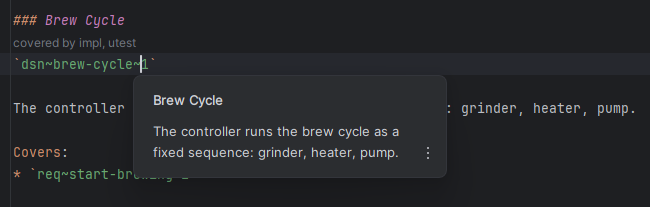
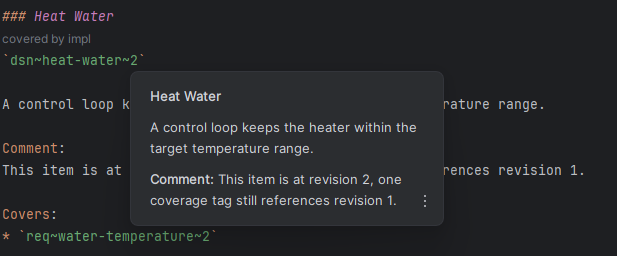
docs/hover-feature-description (#67)

diff --git a/doc/user-guide/README.md b/doc/user-guide/README.md
@@ -9,7 +9,7 @@ The [demo walkthrough](../demo/README.md) does exactly that.
 | Feature                                     | Description                                       | 
 |---------------------------------------------|---------------------------------------------------|
 | [Syntax highlighting](#syntax-highlighting) | IDs, keywords and tags get their own colors       |
-| [Hover documentation](#hover-documentation) | Title and description of the referenced item      |
+| [Hover documentation](#hover-documentation) | What the referenced item says, section by section |
 | [Go to definition](#go-to-definition)       | Between a tag and the item, in both directions    |
 | [Find references](#find-references)         | Every tag covering an item                        |
 | [Symbol search](#symbol-search)             | Find items by ID or title                         |
@@ -39,9 +39,19 @@ own name (`[impl~login~2->...]`) and needed coverage (`[dsn->req~login~1>>impl,u
 
 ## Hover documentation
 
-Pointing at a specification item ID shows the title and description of the item
-it refers to, wherever the ID appears: in a coverage tag, in a `Covers:` list or
-on the declaration itself.
+Pointing at a specification item ID shows what the item it refers to says,
+wherever the ID appears: in a coverage tag, in a `Covers:` list or on the
+declaration itself.
+
+Title and description come first. Below them the tooltip repeats the sections
+the item carries, each behind its keyword: `Rationale:`, `Comment:`, `Depends:`
+and `Tags:`, and `Status:` where it is not `approved`. A section the item does
+not carry is left out.
+
+`Needs:` and `Covers:` are missing on purpose. Both say where the item sits in
+the trace, which the [code lens](#coverage-code-lens) and
+[go to definition](#go-to-definition) answer against the current trace instead
+of repeating what the item declares.
 
 ![Hover documentation](images/hover.png)
 

diff --git a/vscode-extension/README.md b/vscode-extension/README.md
@@ -2,7 +2,7 @@
 
 Integrates the [OpenFastTrace](https://github.com/itsallcode/openfasttrace) (OFT) language server into VS Code via the built-in Language Server Protocol client. The server understands OFT specification items and coverage tags and provides:
 
-* **Hover documentation**: title and description of the referenced specification item
+* **Hover documentation**: shows what the referenced specification item says
 * **Go to definition**: from a coverage tag to the specification item and from an item to all its covering tags
 * **Find references**: all coverage tags in the workspace that cover a specification item
 * **Trace diagnostics**: uncovered specification items, links to items that do not exist and duplicate definitions, reported for every file in the Problems view
@@ -15,6 +15,7 @@ Integrates the [OpenFastTrace](https://github.com/itsallcode/openfasttrace) (OFT
 * **Syntax highlighting**: specification item definitions, section keywords and coverage tags via semantic tokens
 * **Code completion**: specification item IDs in `Covers:` sections and coverage tag targets
 * **Tag skeletons**: invoking completion manually in a comment offers a skeleton such as `[impl->...]` for every artifact type the workspace needs, including project specific ones
+* **Trace decisions**: an architecture decision record written as [MADR](https://github.com/adr/madr) can carry a specification item ID and is then traced like a requirement
 * **Ignore file**: glob patterns in a `.oftignore` file in the workspace root exclude files from all OFT features, on top of the build output and hidden paths that are excluded by default
 
 The server starts automatically when a supported file is opened. No configuration is required.

diff --git a/README.md b/README.md
@@ -33,7 +33,7 @@ explains items, coverage and artifact types.
 | Feature                                                             | What it gives you                                                |
 |---------------------------------------------------------------------|------------------------------------------------------------------|
 | [Syntax highlighting](doc/user-guide/README.md#syntax-highlighting) | Item IDs, section keywords and coverage tags in their own colors |
-| [Hover documentation](doc/user-guide/README.md#hover-documentation) | Title and description of the item an ID refers to                |
+| [Hover documentation](doc/user-guide/README.md#hover-documentation) | What the item an ID refers to says, section by section           |
 | [Go to definition](doc/user-guide/README.md#go-to-definition)       | From a tag to the item, from an item to everything covering it   |
 | [Find references](doc/user-guide/README.md#find-references)         | Every coverage tag in the workspace that covers an item          |
 | [Symbol search](doc/user-guide/README.md#symbol-search)             | Items through the editor's workspace symbol search               |

diff --git a/doc/demo/README.md b/doc/demo/README.md
@@ -35,9 +35,14 @@ are colored.
 ### 2. Hover
 
 In `src/CoffeeMaker.java`, hover over the target of the first coverage tag,
-which is `dsn~brew-cycle~1`.
+which is the implementation of `dsn~brew-cycle~1`.
 
 > **Expected:** title and description of the design item appear as a tooltip.
+
+Now hover over `dsn~heat-water~2` two tags further down.
+
+> **Expected:** below the description the tooltip also shows the item's
+**Comment**, the section the specification carries for it.
 
 ### 3. Go to definition
 

diff --git a/doc/spec/features.md b/doc/spec/features.md
@@ -15,9 +15,9 @@ The language server lists all coverage tags in the workspace that cover a given 
 Needs: req
 
 ## Hover Documentation
-feat~hover-documentation~1
+feat~hover-documentation~2
 
-The language server shows a hover tooltip over a coverage tag. The tooltip contains the specification item's title and description.
+The language server shows a hover tooltip over a coverage tag. The tooltip describes the specification item the tag refers to.
 
 Needs: req
 

diff --git a/doc/spec/requirements.md b/doc/spec/requirements.md
@@ -36,7 +36,7 @@ req~hover-specification-item~1
 When the user hovers over a coverage tag, the server returns a Markdown response describing the specification item.
 
 Covers:
-* feat~hover-documentation~1
+* feat~hover-documentation~2
 
 Needs: impl, utest
 
